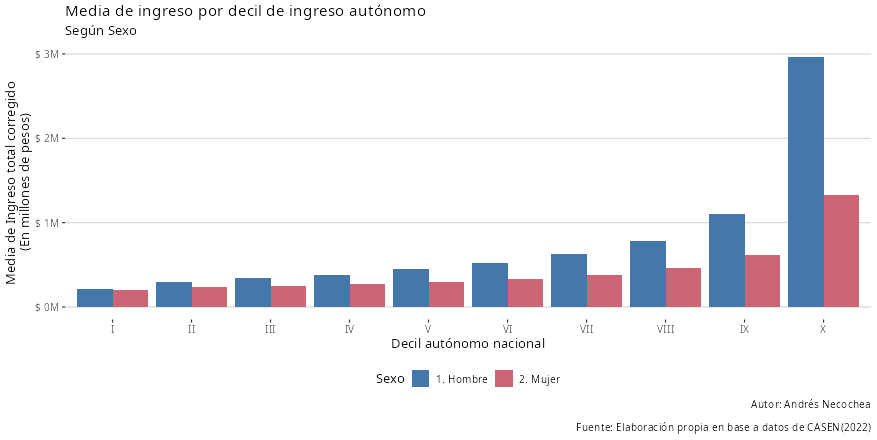
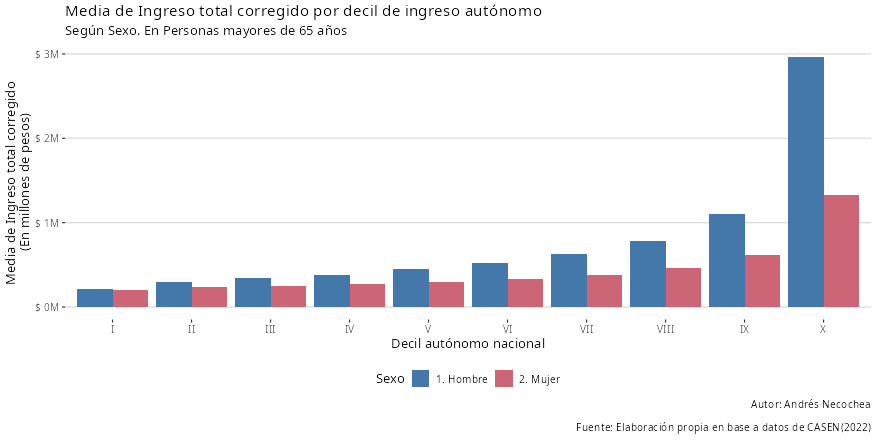
Correcciones en los títulos de los gráficos.

Changed region(s): [[0.1539, 0.0, 0.6157, 0.0886]]

diff --git a/README.md b/README.md
@@ -41,3 +41,7 @@ A continuación se muestra algunos ejemplos. En primer lugar se muestra la media
 En el segundo gráfico se muestra la media de ingreso total según decil de ingreso y sexo en mayores de 65 años.
 
 <img src="ejemplos/ingresototal-sexo-mayores65.png" width="75%" height="75%"/>
+
+En el tercer gráfico se muestra la pobreza infantil (En niños y niñas menores de seis años) según el sexo del jefe o jefa de hogar y el tipo de hogar
+
+<img src="ejemplos/pobrezainfantil-sexojh-tipohogar.png" width="75%" height="75%"/>
